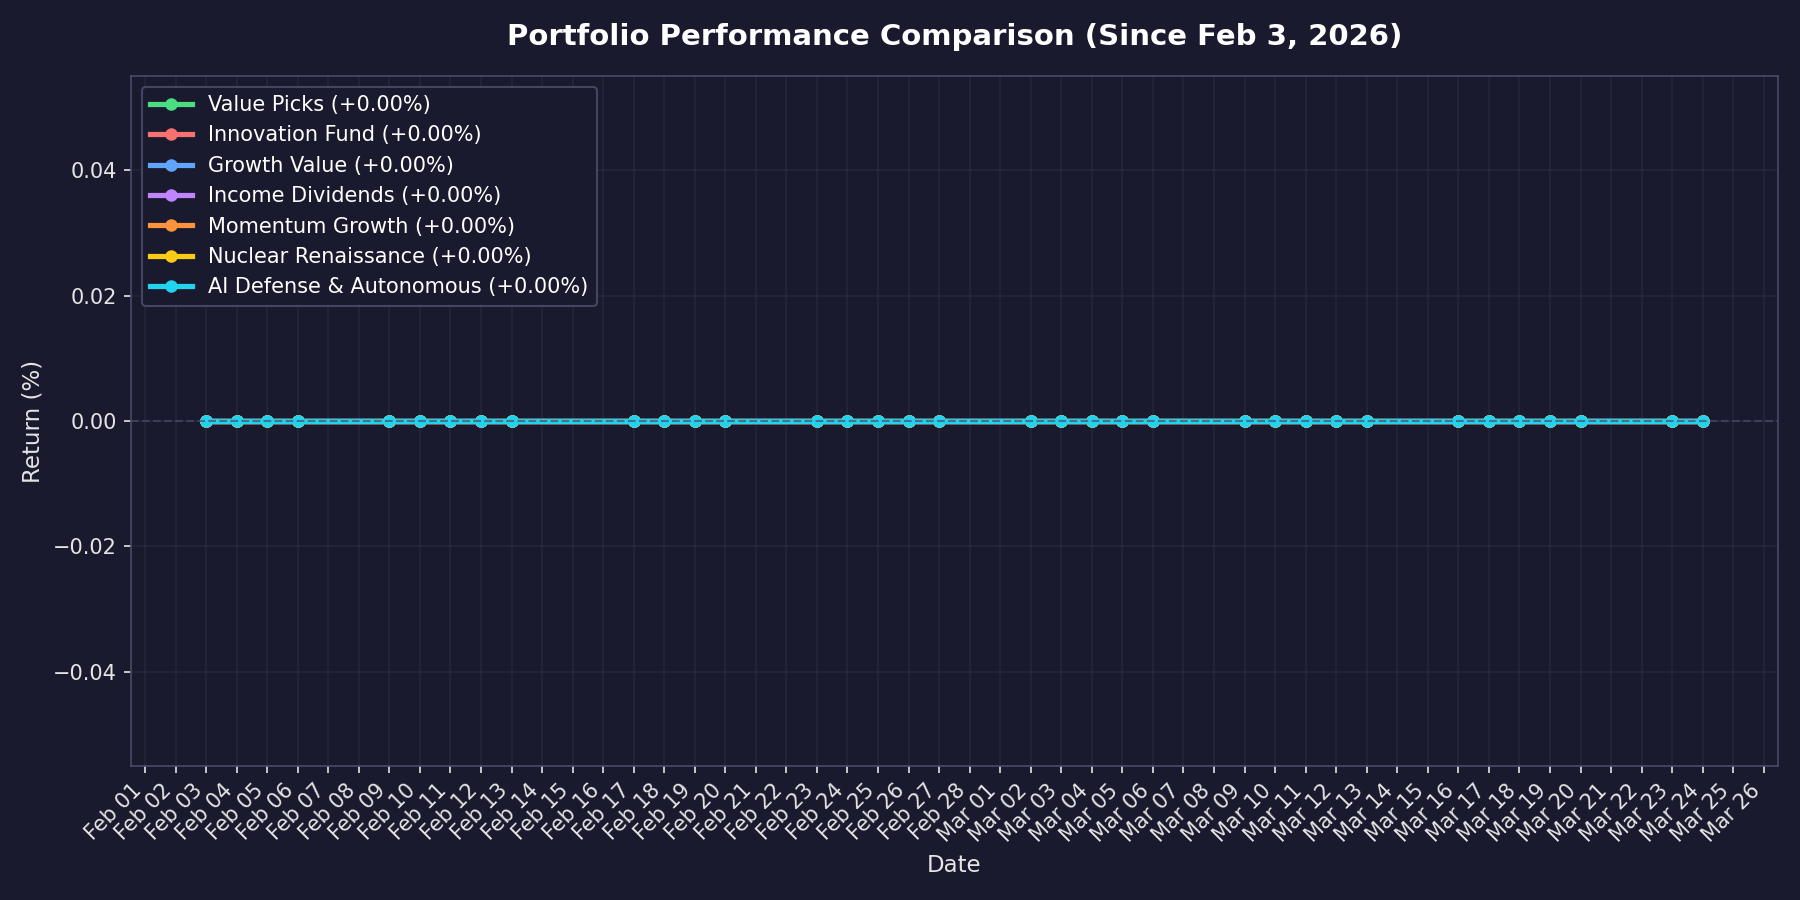
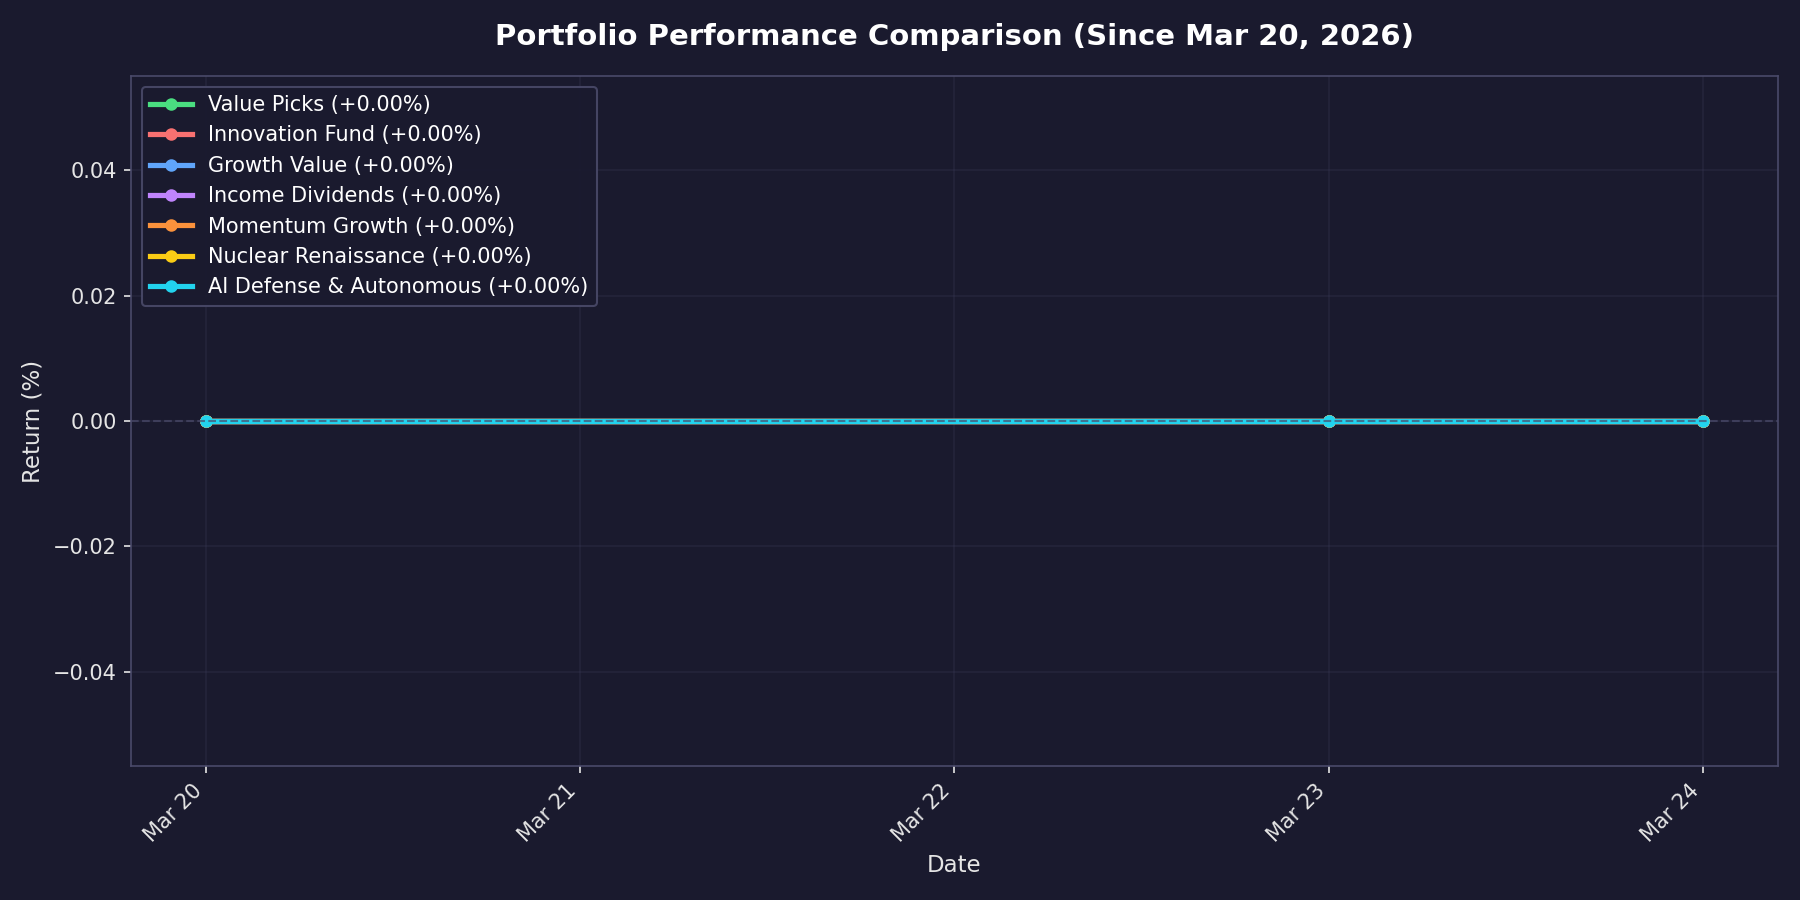
Fix performance chart: reset baseline to Mar 20, purge pre-reset snapshots
The chart was still using Feb 3 as the start date and daily_snapshots
had 162 rows from the pre-reset period, making the dashboard show
disconnected performance data.

Changed region(s): [[0.0311, 0.8711, 0.9956, 0.9333], [0.28, 0.0, 0.7778, 0.0622]]

diff --git a/src/generate_chart.py b/src/generate_chart.py
@@ -169,7 +169,7 @@ def generate_chart(daily_values):
     # Styling
     ax.set_xlabel('Date', fontsize=11, color='#e5e5e5')
     ax.set_ylabel('Return (%)', fontsize=11, color='#e5e5e5')
-    ax.set_title('Portfolio Performance Comparison (Since Feb 3, 2026)', fontsize=14, fontweight='bold', color='white', pad=15)
+    ax.set_title('Portfolio Performance Comparison (Since Mar 20, 2026)', fontsize=14, fontweight='bold', color='white', pad=15)
 
     # Add zero line
     ax.axhline(y=0, color='#4a4a6a', linestyle='--', linewidth=1, alpha=0.7)
@@ -201,8 +201,8 @@ def generate_chart(daily_values):
 
 
 def main():
-    # Date range: Feb 3, 2026 to today
-    start_date = '2026-02-03'
+    # Date range: Mar 20, 2026 (paper trade reset) to today
+    start_date = '2026-03-20'
     end_date = datetime.now().strftime('%Y-%m-%d')
 
     print(f"Generating chart for {start_date} to {end_date}")
